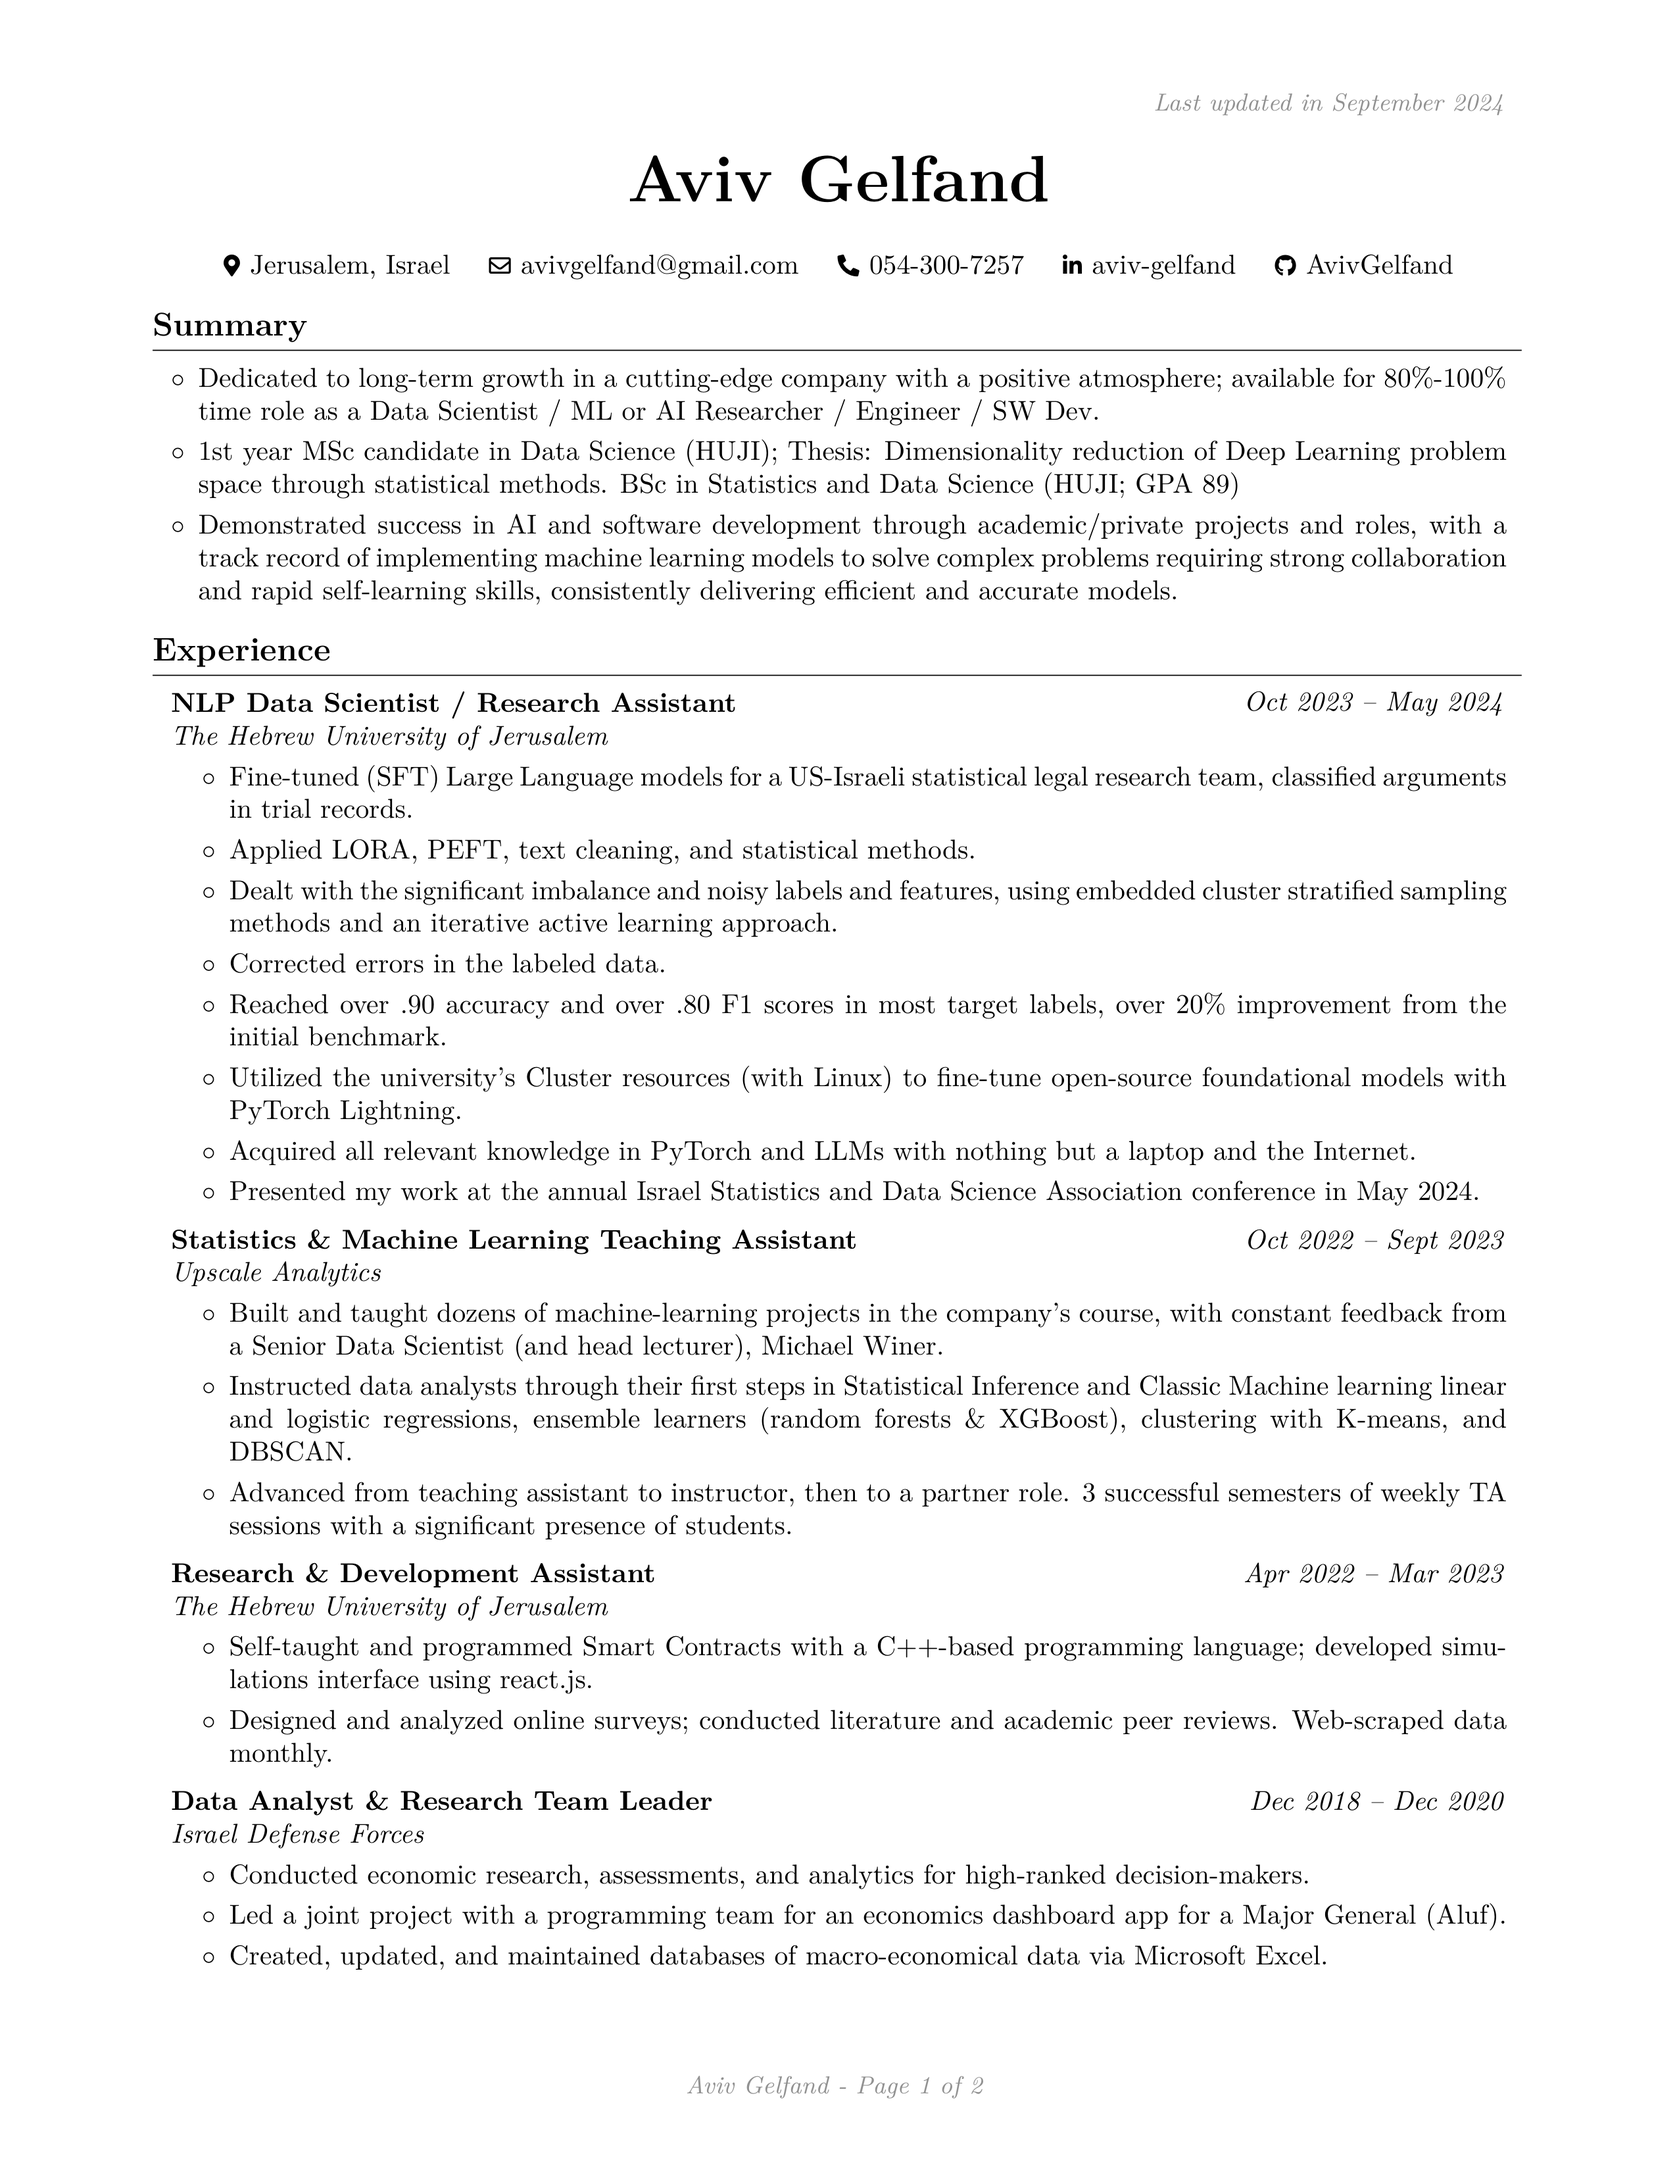
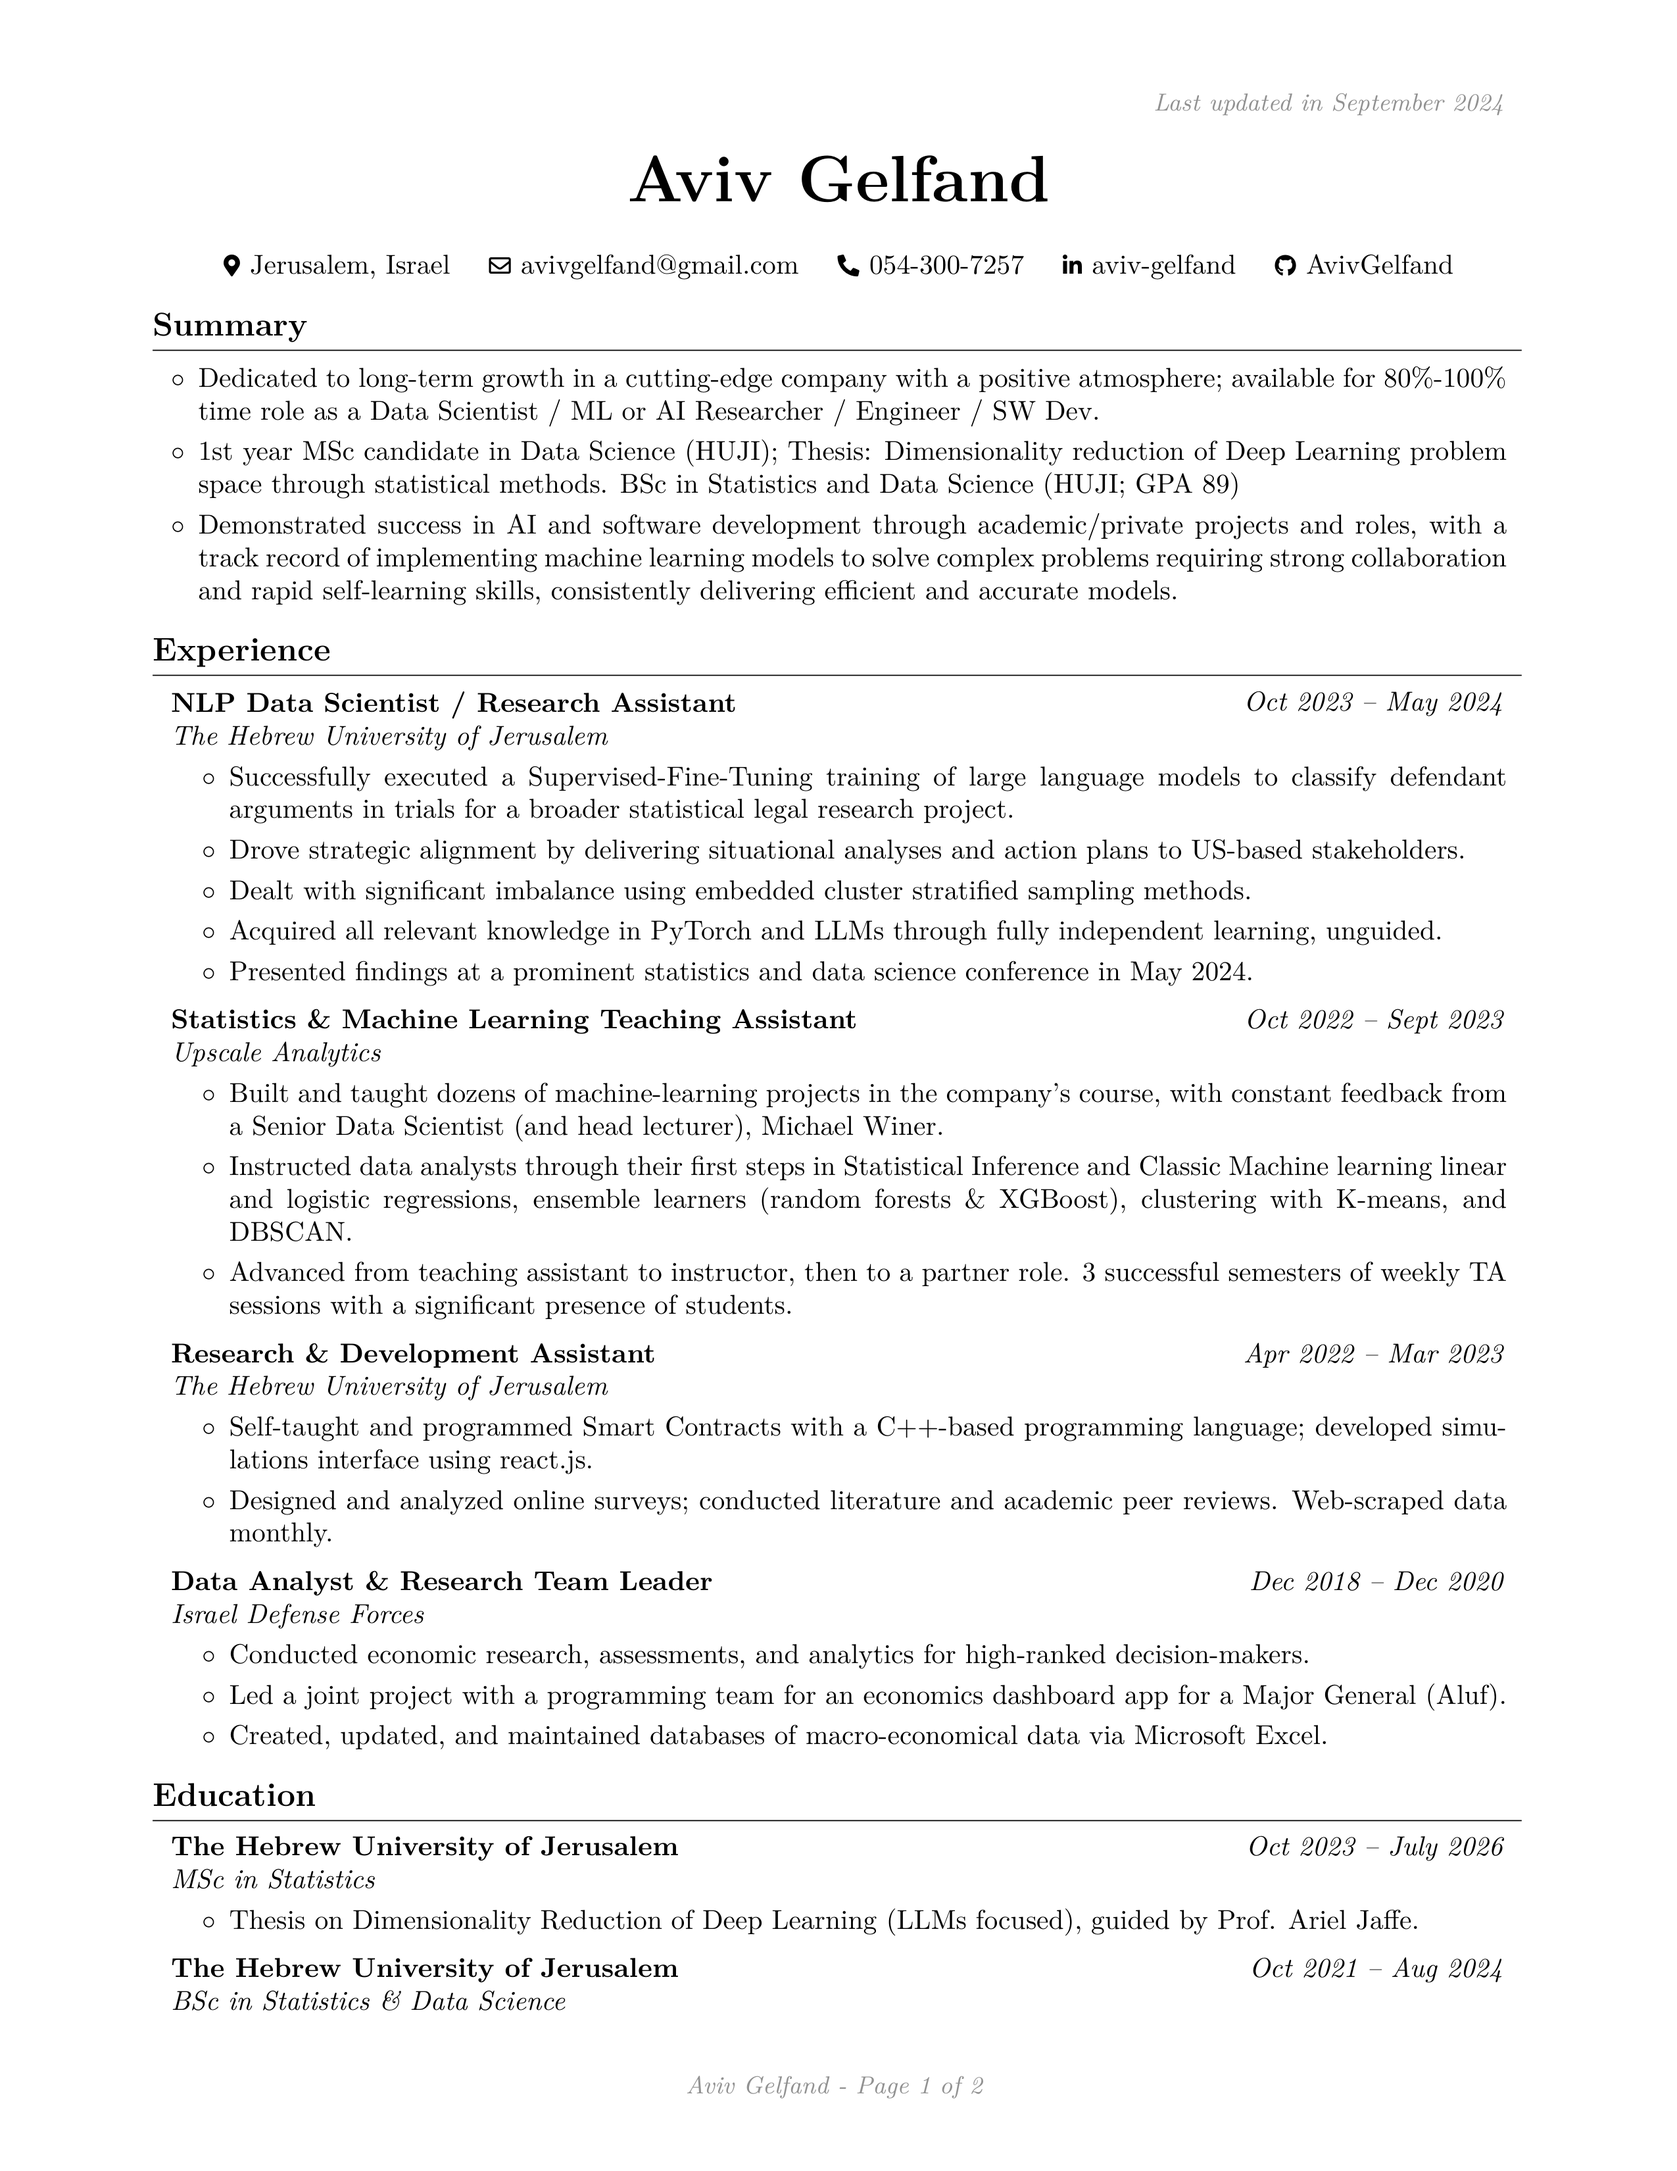
Render the latest CV

Changed region(s): [[0.0929, 0.3433, 0.8984, 0.9364], [0.7745, 0.3433, 0.8984, 0.3745], [0.8365, 0.4682, 0.8984, 0.4994]]

diff --git a/Aviv_Gelfand_CV.html b/Aviv_Gelfand_CV.html
@@ -50,14 +50,11 @@
         <h2>The Hebrew University of Jerusalem, NLP Data Scientist / Research Assistant</h2>
         <ul>
         <li>Oct 2023 – May 2024</li>
-        <li>Fine-tuned (SFT) Large Language models for a US-Israeli statistical legal research team, classified arguments in trial records.</li>
-        <li>Applied LORA, PEFT, text cleaning, and statistical methods.</li>
-        <li>Dealt with the significant imbalance and noisy labels and features, using embedded cluster stratified sampling methods and an iterative active learning approach.</li>
-        <li>Corrected errors in the labeled data.</li>
-        <li>Reached over .90 accuracy and over .80 F1 scores in most target labels, over 20% improvement from the initial benchmark.</li>
-        <li>Utilized the university's Cluster resources (with Linux) to fine-tune open-source foundational models with PyTorch Lightning.</li>
-        <li>Acquired all relevant knowledge in PyTorch and LLMs with nothing but a laptop and the Internet.</li>
-        <li>Presented my work at the annual Israel Statistics and Data Science Association conference in May 2024.</li>
+        <li>Successfully executed a Supervised-Fine-Tuning training of large language models to classify defendant arguments in trials for a broader statistical legal research project.</li>
+        <li>Drove strategic alignment by delivering situational analyses and action plans to US-based stakeholders.</li>
+        <li>Dealt with significant imbalance using embedded cluster stratified sampling methods.</li>
+        <li>Acquired all relevant knowledge in PyTorch and LLMs through fully independent learning, unguided.</li>
+        <li>Presented findings at a prominent statistics and data science conference in May 2024.</li>
         </ul>
         <h2>Upscale Analytics, Statistics &amp; Machine Learning Teaching Assistant</h2>
         <ul>

diff --git a/Aviv_Gelfand_CV.tex b/Aviv_Gelfand_CV.tex
@@ -215,14 +215,11 @@
         \vspace{0.10 cm}
         \begin{onecolentry}
             \begin{highlights}
-                \item Fine-tuned (SFT) Large Language models for a US-Israeli statistical legal research team, classified arguments in trial records.
-                \item Applied LORA, PEFT, text cleaning, and statistical methods.
-                \item Dealt with the significant imbalance and noisy labels and features, using embedded cluster stratified sampling methods and an iterative active learning approach.
-                \item Corrected errors in the labeled data.
-                \item Reached over .90 accuracy and over .80 F1 scores in most target labels, over 20\% improvement from the initial benchmark.
-                \item Utilized the university's Cluster resources (with Linux) to fine-tune open-source foundational models with PyTorch Lightning.
-                \item Acquired all relevant knowledge in PyTorch and LLMs with nothing but a laptop and the Internet.
-                \item Presented my work at the annual Israel Statistics and Data Science Association conference in May 2024.
+                \item Successfully executed a Supervised-Fine-Tuning training of large language models to classify defendant arguments in trials for a broader statistical legal research project.
+                \item Drove strategic alignment by delivering situational analyses and action plans to US-based stakeholders.
+                \item Dealt with significant imbalance using embedded cluster stratified sampling methods.
+                \item Acquired all relevant knowledge in PyTorch and LLMs through fully independent learning, unguided.
+                \item Presented findings at a prominent statistics and data science conference in May 2024.
             \end{highlights}
         \end{onecolentry}
 

diff --git a/README.md b/README.md
@@ -19,14 +19,11 @@
 ## The Hebrew University of Jerusalem, NLP Data Scientist / Research Assistant
 
 - Oct 2023 – May 2024
-- Fine-tuned (SFT) Large Language models for a US-Israeli statistical legal research team, classified arguments in trial records.
-- Applied LORA, PEFT, text cleaning, and statistical methods.
-- Dealt with the significant imbalance and noisy labels and features, using embedded cluster stratified sampling methods and an iterative active learning approach.
-- Corrected errors in the labeled data.
-- Reached over .90 accuracy and over .80 F1 scores in most target labels, over 20% improvement from the initial benchmark.
-- Utilized the university's Cluster resources (with Linux) to fine-tune open-source foundational models with PyTorch Lightning.
-- Acquired all relevant knowledge in PyTorch and LLMs with nothing but a laptop and the Internet.
-- Presented my work at the annual Israel Statistics and Data Science Association conference in May 2024.
+- Successfully executed a Supervised-Fine-Tuning training of large language models to classify defendant arguments in trials for a broader statistical legal research project.
+- Drove strategic alignment by delivering situational analyses and action plans to US-based stakeholders.
+- Dealt with significant imbalance using embedded cluster stratified sampling methods.
+- Acquired all relevant knowledge in PyTorch and LLMs through fully independent learning, unguided.
+- Presented findings at a prominent statistics and data science conference in May 2024.
 
 ## Upscale Analytics, Statistics & Machine Learning Teaching Assistant
 
